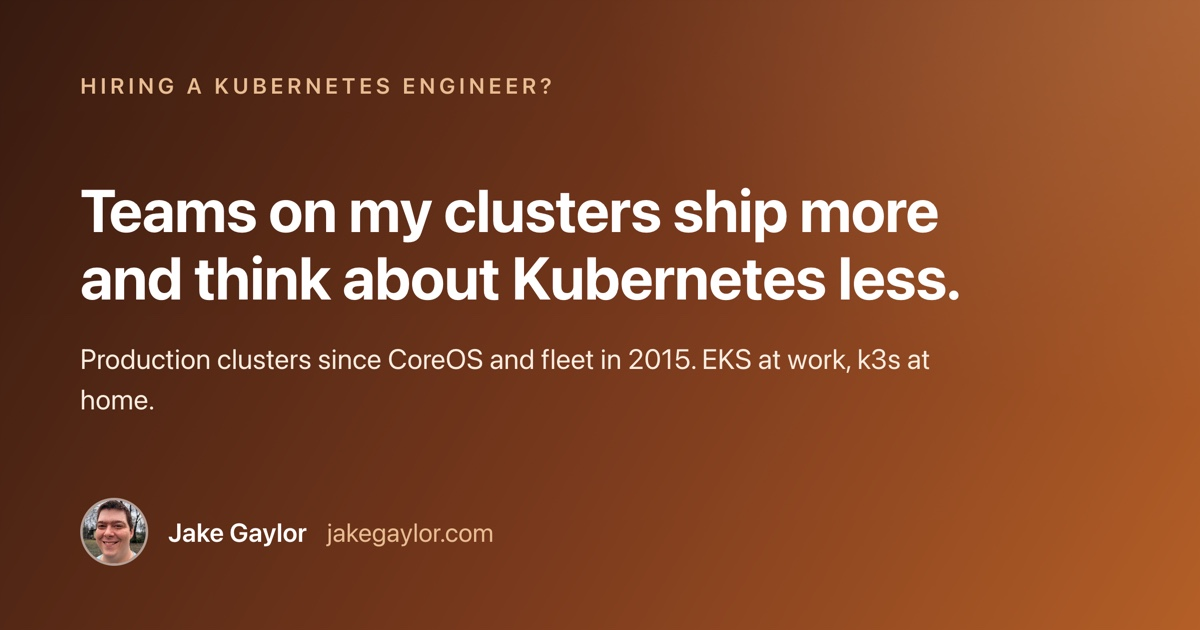
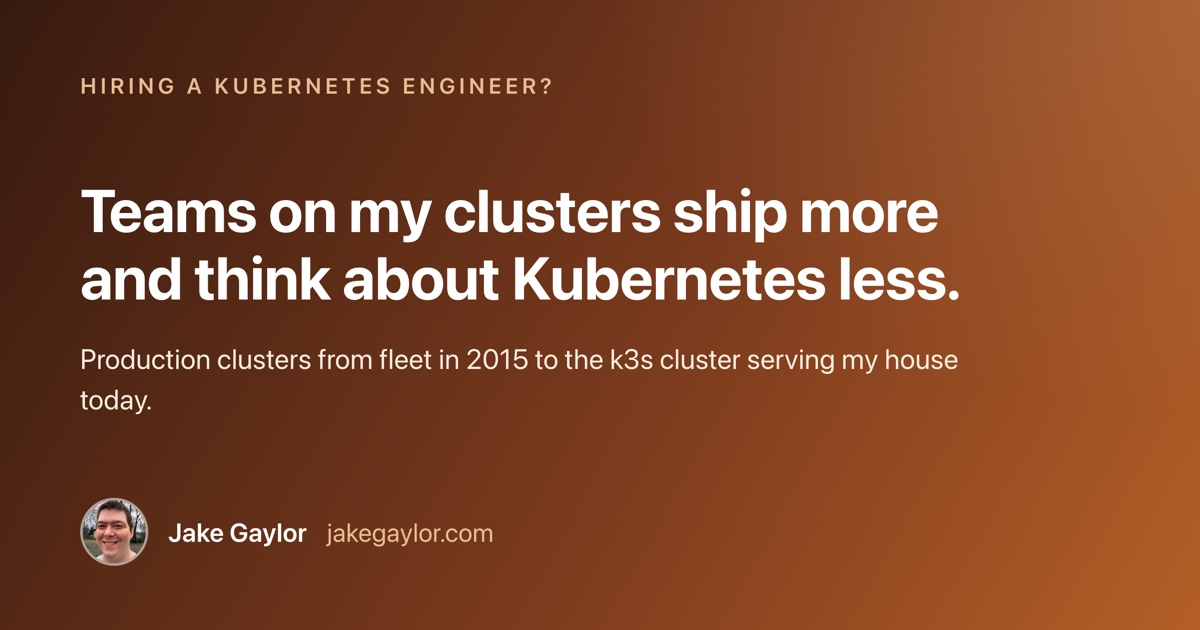
k8s page reads present-first; role heroes center at wide viewports
The kubernetes page led every surface with 2015. The hero now opens
on the cluster serving production from the house today, adds the
Cloaked growth receipt (hundreds of users to hundreds of thousands
on the EKS platform), and the meta descriptions and OG card follow.
All seven role heroes gain mx-auto so the text column sits on the
same center axis as the sections below instead of pinning left.

Changed region(s): [[0.2467, 0.5429, 0.8017, 0.6032], [0.0617, 0.6032, 0.1233, 0.6635]]

diff --git a/kubernetes-engineer.html b/kubernetes-engineer.html
@@ -1,8 +1,8 @@
 ---
 layout: layouts/home.html
 title: Jake Gaylor · Kubernetes Engineer
-description: Jake Gaylor has run production Kubernetes since 2015. CoreOS-era clusters at Food Service Warehouse, operator-based blue/green deploys at CyberGRX, an EKS migration under SOC 2 at Cloaked, and a GitOps k3s cluster serving production from his house.
-socialDescription: Running production Kubernetes since CoreOS and fleet in 2015. EKS with SOC 2 controls at work, a GitOps k3s cluster at home, and teams that ship faster on every cluster in between.
+description: Jake Gaylor runs production Kubernetes today and has since 2015. An EKS platform that scaled Cloaked from hundreds of users to hundreds of thousands under SOC 2, operator-based blue/green deploys at CyberGRX, CoreOS-era clusters at Food Service Warehouse, and a GitOps k3s cluster serving production from his house.
+socialDescription: Production Kubernetes from CoreOS and fleet in 2015 to a GitOps k3s cluster serving my house today, with an EKS platform that scaled Cloaked to hundreds of thousands of users in between.
 canonicalPath: /kubernetes-engineer/
 og_image: /images/og/role-kubernetes-engineer.jpg
 og_image_alt: Hiring a Kubernetes engineer? Teams on my clusters ship more and think about Kubernetes less.
@@ -14,7 +14,7 @@ og_image_alt: Hiring a Kubernetes engineer? Teams on my clusters ship more and t
 <header class="relative bg-gradient-to-br from-brand-700 via-brand-800 to-brand-950 text-white">
   <div class="container mx-auto px-6 pt-8 pb-16 md:pb-20">
     {% include "partials/site-nav.html" %}
-    <div class="max-w-3xl">
+    <div class="max-w-3xl mx-auto">
       <p class="text-brand-200 font-semibold tracking-widest uppercase text-sm mb-5">
         Kubernetes Engineer &middot; Senior / Staff
       </p>
@@ -22,9 +22,10 @@ og_image_alt: Hiring a Kubernetes engineer? Teams on my clusters ship more and t
         Teams on my clusters ship more and think about Kubernetes less.
       </h1>
       <p class="text-xl text-brand-100 mb-10">
-        I stood up my first production clusters in 2015, on CoreOS, fleet, etcd, and flannel, before kubeadm existed.
-        The tooling has changed every year since and the job hasn&rsquo;t. Build the cluster, pave the road onto it,
-        and make deploys boring enough that the team forgets they used to be scary.
+        My newest cluster is serving production from my house right now. My first went live in 2015, on CoreOS,
+        fleet, etcd, and flannel, before kubeadm existed. In between, my EKS platform carried Cloaked from
+        hundreds of users to hundreds of thousands. Build the cluster, pave the road onto it, and make deploys
+        boring enough that the team forgets they used to be scary.
       </p>
       {% include "partials/hero-ctas.html" %}
     </div>
@@ -36,7 +37,7 @@ og_image_alt: Hiring a Kubernetes engineer? Teams on my clusters ship more and t
   <div class="container mx-auto px-6">
     <div class="max-w-3xl mx-auto text-center mb-14">
       <h2 class="text-3xl md:text-4xl font-bold mb-4">Eleven years of production clusters</h2>
-      <p class="text-lg text-gray-600">Four generations of Kubernetes, each with a measurable result.</p>
+      <p class="text-lg text-gray-600">Four generations of Kubernetes, from fleet in 2015 to the cluster serving my house today, each with a measurable result.</p>
     </div>
 
     <div class="grid grid-cols-1 md:grid-cols-2 gap-6 max-w-5xl mx-auto">
@@ -63,6 +64,7 @@ og_image_alt: Hiring a Kubernetes engineer? Teams on my clusters ship more and t
         <p class="text-gray-700 leading-relaxed">
           At Cloaked I led the migration from a legacy PaaS to AWS EKS, with a multi-account model that met
           SOC 2, ISO 27001, and ISO 27701 requirements, and a GitOps CI/CD pipeline that accelerated deployments 30x.
+          That platform carried the business from hundreds of users to hundreds of thousands.
         </p>
       </div>
       <div class="bg-white rounded-2xl p-8 border border-brand-100 shadow-sm">

diff --git a/engineering-leader.html b/engineering-leader.html
@@ -14,7 +14,7 @@ og_image_alt: Hiring an engineering leader? Nothing I build needs me in the room
 <header class="relative bg-gradient-to-br from-brand-700 via-brand-800 to-brand-950 text-white">
   <div class="container mx-auto px-6 pt-8 pb-16 md:pb-20">
     {% include "partials/site-nav.html" %}
-    <div class="max-w-3xl">
+    <div class="max-w-3xl mx-auto">
       <p class="text-brand-200 font-semibold tracking-widest uppercase text-sm mb-5">
         Engineering Leadership &middot; Lead / Manager / Head of
       </p>

diff --git a/sre.html b/sre.html
@@ -14,7 +14,7 @@ og_image_alt: Hiring an SRE? Product teams on my systems never ask whether the b
 <header class="relative bg-gradient-to-br from-brand-700 via-brand-800 to-brand-950 text-white">
   <div class="container mx-auto px-6 pt-8 pb-16 md:pb-20">
     {% include "partials/site-nav.html" %}
-    <div class="max-w-3xl">
+    <div class="max-w-3xl mx-auto">
       <p class="text-brand-200 font-semibold tracking-widest uppercase text-sm mb-5">
         Site Reliability Engineer &middot; Senior / Staff
       </p>

diff --git a/platform-engineer.html b/platform-engineer.html
@@ -14,7 +14,7 @@ og_image_alt: Hiring a platform engineer? I build paved roads and get every engi
 <header class="relative bg-gradient-to-br from-brand-700 via-brand-800 to-brand-950 text-white">
   <div class="container mx-auto px-6 pt-8 pb-16 md:pb-20">
     {% include "partials/site-nav.html" %}
-    <div class="max-w-3xl">
+    <div class="max-w-3xl mx-auto">
       <p class="text-brand-200 font-semibold tracking-widest uppercase text-sm mb-5">
         Platform Engineer &middot; Senior / Staff
       </p>

diff --git a/devops.html b/devops.html
@@ -14,7 +14,7 @@ og_image_alt: Hiring a DevOps engineer? Quarterly deploy events become shipping 
 <header class="relative bg-gradient-to-br from-brand-700 via-brand-800 to-brand-950 text-white">
   <div class="container mx-auto px-6 pt-8 pb-16 md:pb-20">
     {% include "partials/site-nav.html" %}
-    <div class="max-w-3xl">
+    <div class="max-w-3xl mx-auto">
       <p class="text-brand-200 font-semibold tracking-widest uppercase text-sm mb-5">
         DevOps Engineer &middot; Senior / Staff
       </p>

diff --git a/aws-specialist.html b/aws-specialist.html
@@ -14,7 +14,7 @@ og_image_alt: Hiring an AWS specialist? I build AWS infrastructure ahead of your
 <header class="relative bg-gradient-to-br from-brand-700 via-brand-800 to-brand-950 text-white">
   <div class="container mx-auto px-6 pt-8 pb-16 md:pb-20">
     {% include "partials/site-nav.html" %}
-    <div class="max-w-3xl">
+    <div class="max-w-3xl mx-auto">
       <p class="text-brand-200 font-semibold tracking-widest uppercase text-sm mb-5">
         AWS Specialist &middot; Senior / Staff
       </p>

diff --git a/ai-engineer.html b/ai-engineer.html
@@ -14,7 +14,7 @@ og_image_alt: Hiring an AI engineer? Agents users touch, agents that write code,
 <header class="relative bg-gradient-to-br from-brand-700 via-brand-800 to-brand-950 text-white">
   <div class="container mx-auto px-6 pt-8 pb-16 md:pb-20">
     {% include "partials/site-nav.html" %}
-    <div class="max-w-3xl">
+    <div class="max-w-3xl mx-auto">
       <p class="text-brand-200 font-semibold tracking-widest uppercase text-sm mb-5">
         AI Engineer &middot; Senior / Staff
       </p>
